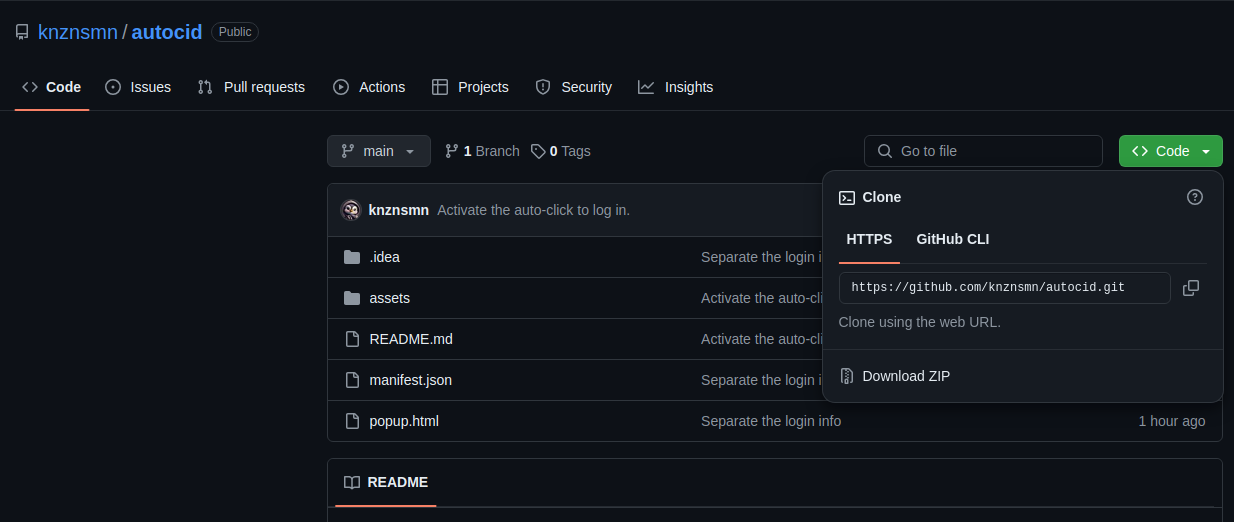
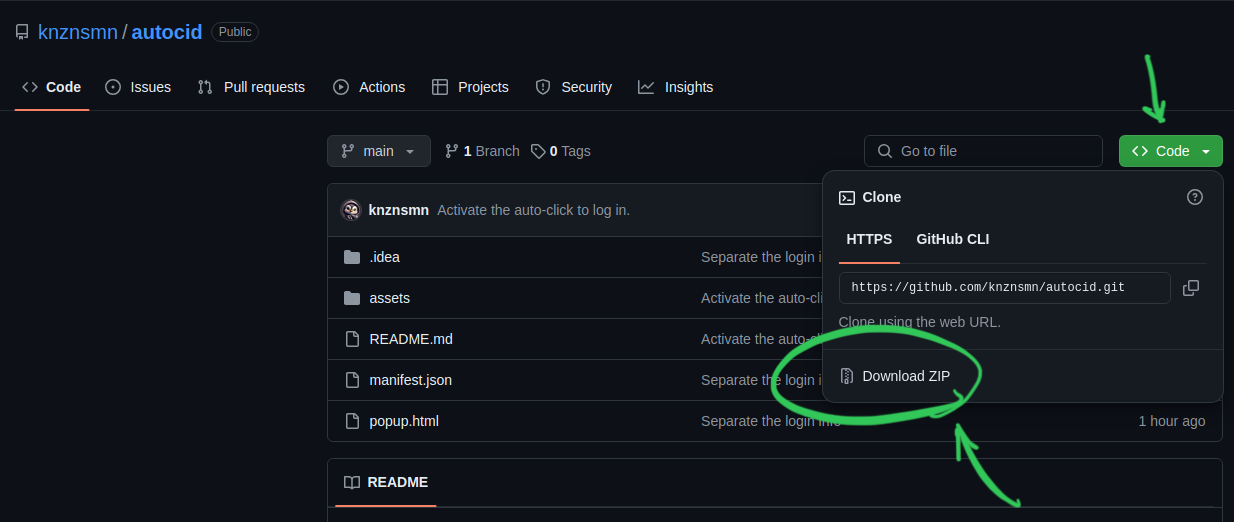
Add screenshots to README

Changed region(s): [[0.6159, 0.613, 0.8006, 0.9195], [0.9238, 0.092, 0.9546, 0.2452], [0.8006, 0.9195, 0.8314, 0.9808]]

diff --git a/README.md b/README.md
@@ -1,14 +1,17 @@
 # FrontDesk AutoCID
 ![banner.png](assets/img/banner.png) 
-FrontDesk AutoCID is a small Chrome extension that helps CID encoders and hotel receptionists avoid typing security codes into the CID website's login panel, enabling them to type a little less and work more. If that makes sense. Like, at all.
+The FrontDesk AutoCID Chrome extension assists CID encoders and hotel receptionists by automatically entering security codes into the CID website's login panel. This helps reduce the amount of typing required, allowing them to work more efficiently. If that makes sense. Like, at all.
 
 
 ## How to Install:
 1. Go to the [repository](https://github.com/knznsmn/autocid). 
-2. Download the repository. 
-3. Extract the downloaded zip file to a convenient location. 
-4. Open [chrome://extensions/](chrome://extensions/). 
-5. Enable Developer Mode and load the extracted extension by clicking on the "Load unpacked" button on the top right. 
+2. Download the repository. ![Click this Code button](assets/img/01-autocid.png)
+![Click this Code button](assets/img/02-autocid.png)
+3. (Optional) Extract the downloaded zip file to a convenient location. 
+4. Open [chrome://extensions/](chrome://extensions/). ![Click this extension icon](assets/img/03-autocid.png)
+5. Enable Developer Mode and load the downloaded extension by clicking on the "Load unpacked" button on the top right.
+![Toggle this button](assets/img/04-autocid.png)
+![Toggle this button](assets/img/05-autocid.png)
 6. You will now find **FrontDesk AutoCID** among your installed extensions. Consider pinning it for easy access. 
 7. Click the extension icon to open the login panel and save your login details.
 
